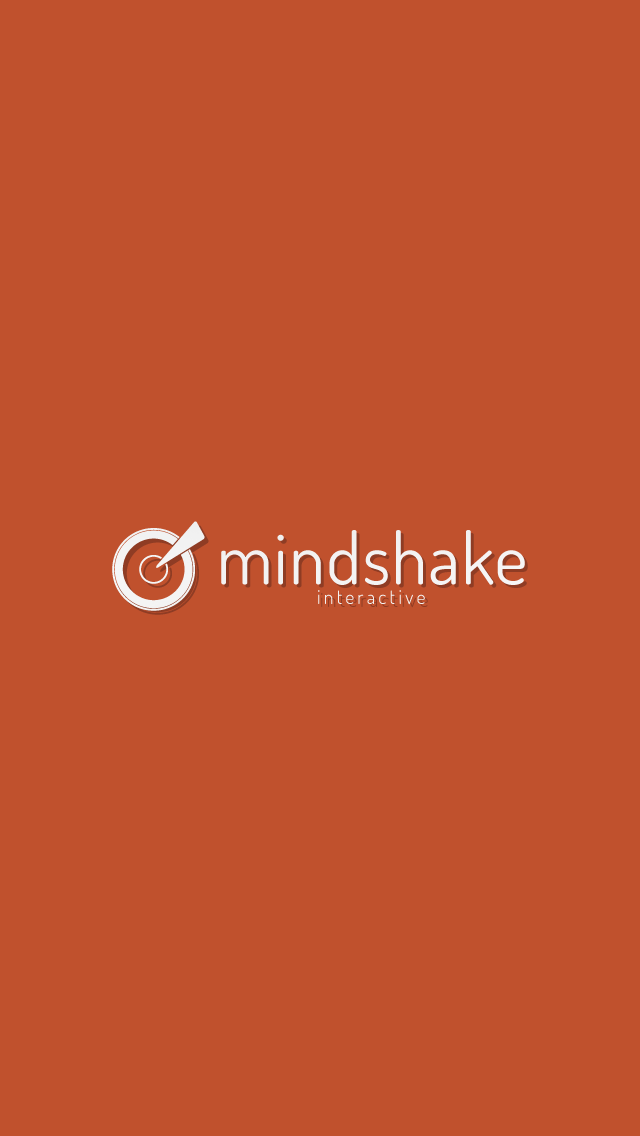
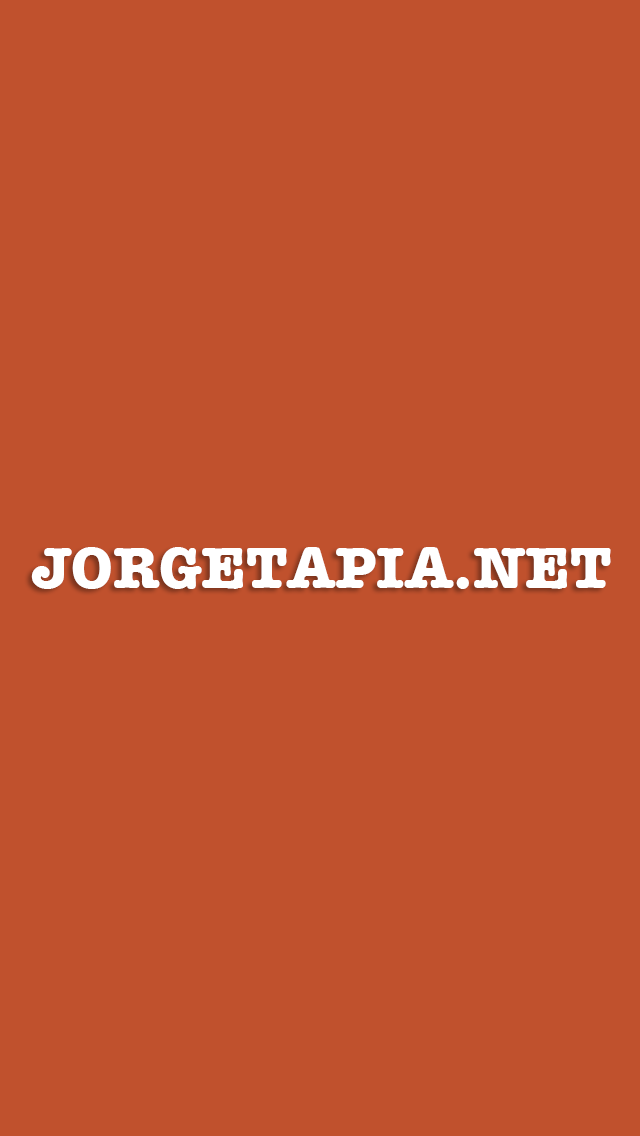
Simplifies the construction of standard ISO-8583 and custom messages.

Changed region(s): [[0.0312, 0.4621, 0.9688, 0.5546]]

diff --git a/Objective-ISO8583/AppDelegate.m b/Objective-ISO8583/AppDelegate.m
@@ -24,14 +24,14 @@
     // Declares the presence of a secondary bitmap and data elements: 3, 4, 7, 11, 44, 105
     isoMessage1.bitmap = [[ISOBitmap alloc] initWithHexString:@"B2200000001000000000000000800000"];
     
-    [isoMessage1 addDataElement:@"DE03" withValue:@"123" configFileName:nil];
-    [isoMessage1 addDataElement:@"DE04" withValue:@"123" configFileName:nil];
-    [isoMessage1 addDataElement:@"DE07" withValue:@"123" configFileName:nil];
-    [isoMessage1 addDataElement:@"DE11" withValue:@"123" configFileName:nil];
-    [isoMessage1 addDataElement:@"DE44" withValue:@"Value for DE44" configFileName:nil];
-    [isoMessage1 addDataElement:@"DE105" withValue:@"This is the value for DE105" configFileName:nil];
+    [isoMessage1 addDataElement:@"DE03" withValue:@"123"];
+    [isoMessage1 addDataElement:@"DE04" withValue:@"123"];
+    [isoMessage1 addDataElement:@"DE07" withValue:@"123"];
+    [isoMessage1 addDataElement:@"DE11" withValue:@"123"];
+    [isoMessage1 addDataElement:@"DE44" withValue:@"Value for DE44"];
+    [isoMessage1 addDataElement:@"DE105" withValue:@"This is the value for DE105"];
     
-    NSString *theBuiltMessage = [isoMessage1 buildIsoMessage:nil];
+    NSString *theBuiltMessage = [isoMessage1 buildIsoMessage];
     NSLog(@"Built message:\n%@", theBuiltMessage);
 
     // Example of usage #2
@@ -40,16 +40,16 @@
     ISOMessage *isoMessage2 = [[ISOMessage alloc] init];
     [isoMessage2 setMTI:@"0200"];
     // Initializes the bitmap with given data elements
-    isoMessage2.bitmap = [[ISOBitmap alloc] initWithGivenDataElements:@[@"DE03", @"DE04", @"DE07", @"DE11", @"DE44", @"DE105"] configFileName:nil];
+    isoMessage2.bitmap = [[ISOBitmap alloc] initWithGivenDataElements:@[@"DE03", @"DE04", @"DE07", @"DE11", @"DE44", @"DE105"]];
 
-    [isoMessage2 addDataElement:@"DE03" withValue:@"123" configFileName:nil];
-    [isoMessage2 addDataElement:@"DE04" withValue:@"123" configFileName:nil];
-    [isoMessage2 addDataElement:@"DE07" withValue:@"123" configFileName:nil];
-    [isoMessage2 addDataElement:@"DE11" withValue:@"123" configFileName:nil];
-    [isoMessage2 addDataElement:@"DE44" withValue:@"Value for DE44" configFileName:nil];
-    [isoMessage2 addDataElement:@"DE105" withValue:@"This is the value for DE105" configFileName:nil];
+    [isoMessage2 addDataElement:@"DE03" withValue:@"123"];
+    [isoMessage2 addDataElement:@"DE04" withValue:@"123"];
+    [isoMessage2 addDataElement:@"DE07" withValue:@"123"];
+    [isoMessage2 addDataElement:@"DE11" withValue:@"123"];
+    [isoMessage2 addDataElement:@"DE44" withValue:@"Value for DE44"];
+    [isoMessage2 addDataElement:@"DE105" withValue:@"This is the value for DE105"];
 
-    NSString *theBuiltMessage2 = [isoMessage2 buildIsoMessage:nil];
+    NSString *theBuiltMessage2 = [isoMessage2 buildIsoMessage];
     NSLog(@"Built message:\n%@", theBuiltMessage2);
 
     // Example of usage #3
@@ -62,7 +62,8 @@
             continue;
         }
         
-        NSLog(@"%@:%@", elementName, ((ISODataElement *)[isoMessage3.dataElements objectForKey:elementName]).value);
+        ISODataElement *dataElement = [isoMessage3.dataElements objectForKey:elementName];
+        NSLog(@"%@:%@", elementName, dataElement.value);
     }
     
     // Example of usage #4
@@ -75,7 +76,8 @@
             continue;
         }
         
-        NSLog(@"%@:%@", elementName, ((ISODataElement *)[isoMessage4.dataElements objectForKey:elementName]).value);
+        ISODataElement *dataElement = [isoMessage4.dataElements objectForKey:elementName];
+        NSLog(@"%@:%@", elementName, dataElement.value);
     }
     
     // Example of usage #5
@@ -101,7 +103,8 @@
     ISOMessage *isoMessage6 = [[ISOMessage alloc] initWithCustomIsoMessage:@"012703000800000000000501000000000000001000001" configFileName:@"customisoconfig" customMTIFileName:@"customisoMTI"];
     
     for (id elementName in isoMessage6.dataElements) {
-        NSLog(@"%@:%@", elementName, ((ISODataElement *)[isoMessage6.dataElements objectForKey:elementName]).value);
+        ISODataElement *dataElement = [isoMessage6.dataElements objectForKey:elementName];
+        NSLog(@"%@:%@", elementName, dataElement.value);
     }
     
     // Example of usage #7
@@ -110,7 +113,8 @@
     ISOMessage *isoMessage7 = [[ISOMessage alloc] initWithCustomIsoMessageAndHeader:@"ISO012703000800000000000501000000000000001000001" configFileName:@"customisoconfig" customMTIFileName:@"customisoMTI"];
     
     for (id elementName in isoMessage7.dataElements) {
-        NSLog(@"%@:%@", elementName, ((ISODataElement *)[isoMessage7.dataElements objectForKey:elementName]).value);
+        ISODataElement *dataElement = [isoMessage7.dataElements objectForKey:elementName];
+        NSLog(@"%@:%@", elementName, dataElement.value);
     }
     
     return YES;

diff --git a/Objective-ISO8583 Lib/ISOMessage.h b/Objective-ISO8583 Lib/ISOMessage.h
@@ -26,12 +26,19 @@
 - (BOOL)useCustomConfigurationFile:(NSString *)customConfigurationFileName andCustomMTIFileName:(NSString *)customMTIFileName;
 
 - (BOOL)setMTI:(NSString *)mti;
+
+- (BOOL)addDataElement:(NSString *)elementName withValue:(NSString *)value;
 - (BOOL)addDataElement:(NSString *)elementName withValue:(NSString *)value configFileName:(NSString *)configFileName;
+
 - (NSString *)getHexBitmap1;
 - (NSString *)getBinaryBitmap1;
 - (NSString *)getHexBitmap2;
 - (NSString *)getBinaryBitmap2;
+
+- (NSString *)buildIsoMessage;
 - (NSString *)buildIsoMessage:(NSString *)customConfigFileName;
+
+- (NSString *)buildIsoMessageWithISOHeader;
 - (NSString *)buildIsoMessageWithISOHeader:(NSString *)customConfigFileName;
 
 @end

diff --git a/Objective-ISO8583/ViewController.m b/Objective-ISO8583/ViewController.m
@@ -26,12 +26,12 @@
     // Dispose of any resources that can be recreated.
 }
 
-- (IBAction)mindshakeAction:(id)sender {
-    [[UIApplication sharedApplication] openURL:[NSURL URLWithString:@"http://mindshake.net"]];
+- (IBAction)jorgeTapiaAction:(id)sender {
+    [[UIApplication sharedApplication] openURL:[NSURL URLWithString:@"http://jorgetapia.net"]];
 }
 
 - (IBAction)githubAction:(id)sender {
-    [[UIApplication sharedApplication] openURL:[NSURL URLWithString:@"https://github.com/profkills/Objective-ISO8583"]];
+    [[UIApplication sharedApplication] openURL:[NSURL URLWithString:@"https://github.com/mordoskull/Objective-ISO8583"]];
 }
 
 @end

diff --git a/Objective-ISO8583 Lib/ISOMessage.m b/Objective-ISO8583 Lib/ISOMessage.m
@@ -270,6 +270,10 @@
     }
 }
 
+- (BOOL)addDataElement:(NSString *)elementName withValue:(NSString *)value {
+    return [self addDataElement:elementName withValue:value configFileName:nil];
+}
+
 - (BOOL)addDataElement:(NSString *)elementName withValue:(NSString *)value configFileName:(NSString *)configFileName {
     if (!_bitmap) {
         NSLog(@"Cannot add data elements without setting the bitmap before.");
@@ -366,6 +370,10 @@
     }
     
     return nil;
+}
+
+- (NSString *)buildIsoMessage {
+    return [self buildIsoMessage:nil];
 }
 
 - (NSString *)buildIsoMessage:(NSString *)customConfigFileName {

diff --git a/Objective-ISO8583 Lib/ISOBitmap.m b/Objective-ISO8583 Lib/ISOBitmap.m
@@ -77,6 +77,10 @@
     return self;
 }
 
+- (id)initWithGivenDataElements:(NSArray *)dataElements {
+    return [self initWithGivenDataElements:dataElements configFileName:nil];
+}
+
 - (id)initWithGivenDataElements:(NSArray *)dataElements configFileName:(NSString *)configFileName {
     self = [super init];
 
@@ -134,6 +138,10 @@
 
 - (NSString *)bitmapAsHexString {
     return !_isBinary ? _rawValue : [ISOHelper binaryToHexAsString:_rawValue];
+}
+
+- (NSArray *)dataElementsInBitmap {
+    return [self dataElementsInBitmap:nil];
 }
 
 - (NSArray *)dataElementsInBitmap:(NSString *)customConfigFileName {

diff --git a/Objective-ISO8583 Lib/ISOBitmap.h b/Objective-ISO8583 Lib/ISOBitmap.h
@@ -17,10 +17,12 @@
 
 - (id)initWithBinaryString:(NSString *)binaryString;
 - (id)initWithHexString:(NSString *)hexString;
+- (id)initWithGivenDataElements:(NSArray *)dataElements;
 - (id)initWithGivenDataElements:(NSArray *)dataElements configFileName:(NSString *)configFileName;
 
 - (NSString *)bitmapAsBinaryString;
 - (NSString *)bitmapAsHexString;
+- (NSArray *)dataElementsInBitmap;
 - (NSArray *)dataElementsInBitmap:(NSString *)customConfigFileName;
 
 @end

diff --git a/Objective-ISO8583/ViewController.h b/Objective-ISO8583/ViewController.h
@@ -10,7 +10,7 @@
 
 @interface ViewController : UIViewController
 
-- (IBAction)mindshakeAction:(id)sender;
+- (IBAction)jorgeTapiaAction:(id)sender;
 - (IBAction)githubAction:(id)sender;
 
 @end
